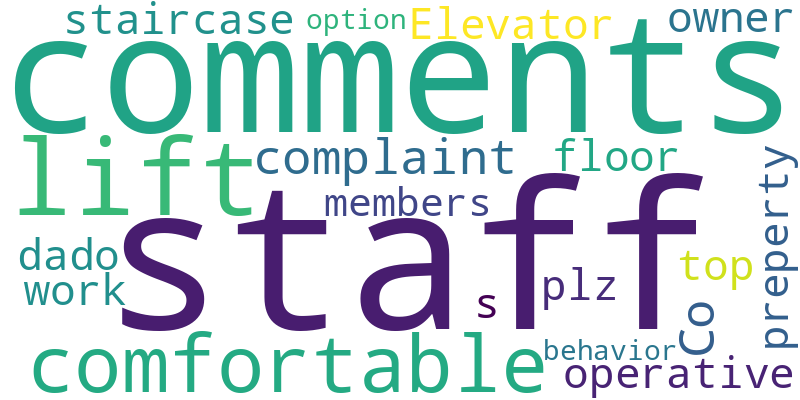
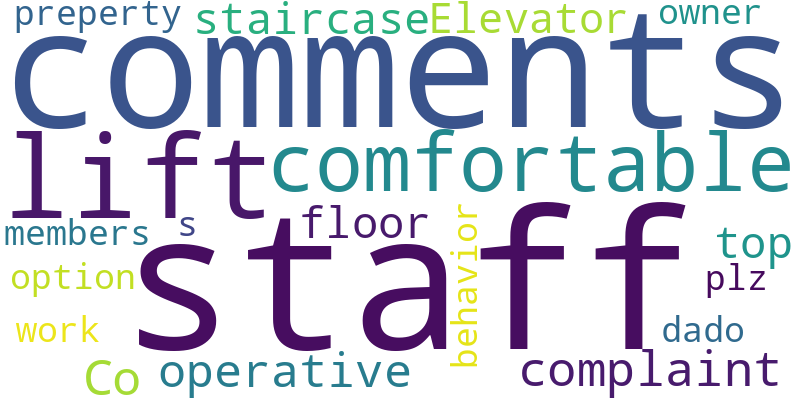
All pages UI modifed

diff --git a/Backend/analysis/templates/analysis/result.html b/Backend/analysis/templates/analysis/result.html
@@ -2,26 +2,35 @@
 {% block title %}Results - {{ hotel_name }}{% endblock %}
 
 {% block content %}
-<div class="p-8">
-    <h1 class="text-3xl font-bold mb-6">Results for {{ hotel_name }}</h1>
-    <p class="mb-6 text-gray-700">Total Processed Reviews: {{ review_count }}</p>
+<div>
+    <h2 class="text-3xl font-bold text-blue-700 mb-2">{{ hotel_name }}</h2>
+    <p class="text-gray-600 mb-6">Total Processed Reviews: 
+        <span class="font-semibold text-gray-800">{{ review_count }}</span>
+    </p>
 
-    <div class="grid grid-cols-2 gap-6">
-        <div id="sentiment_container">
-            <h2 class="text-xl mb-2 font-semibold">Sentiment Pie Chart</h2>
-            <div id="sentiment_chart"></div>
+    <div class="grid grid-cols-1 md:grid-cols-2 gap-6">
+        <!-- Sentiment Pie -->
+        <div id="sentiment_container" class="bg-white p-4 rounded shadow">
+            <h3 class="text-xl font-semibold mb-2">Sentiment Pie Chart</h3>
+            <div id="sentiment_chart" class="w-full"></div>
         </div>
-        <div id="trend_container">
-            <h2 class="text-xl mb-2 font-semibold">Rating Trend</h2>
-            <div id="trend_chart"></div>
+
+        <!-- Rating Trend -->
+        <div id="trend_container" class="bg-white p-4 rounded shadow">
+            <h3 class="text-xl font-semibold mb-2">Rating Trend Over Time</h3>
+            <div id="trend_chart" class="w-full"></div>
         </div>
-        <div id="country_container">
-            <h2 class="text-xl mb-2 font-semibold">User Country Distribution</h2>
-            <div id="country_chart"></div>
+
+        <!-- Country Distribution -->
+        <div id="country_container" class="bg-white p-4 rounded shadow">
+            <h3 class="text-xl font-semibold mb-2">User Country Distribution</h3>
+            <div id="country_chart" class="w-full"></div>
         </div>
-        <div>
-            <h2 class="text-xl mb-2 font-semibold">Keyword WordCloud</h2>
-            <img src="{{ tags_wordcloud }}" alt="Keyword Cloud">
+
+        <!-- WordCloud -->
+        <div class="bg-white p-4 rounded shadow">
+            <h3 class="text-xl font-semibold mb-2">Keyword Word Cloud</h3>
+            <img src="{{ tags_wordcloud }}" alt="Keyword Cloud" class="w-full object-contain rounded">
         </div>
     </div>
 </div>
@@ -34,11 +43,13 @@
     } else {
         document.getElementById('sentiment_container').style.display = 'none';
     }
+
     if (charts.trend) {
         Plotly.newPlot('trend_chart', charts.trend.data, charts.trend.layout);
     } else {
         document.getElementById('trend_container').style.display = 'none';
     }
+
     if (charts.country) {
         Plotly.newPlot('country_chart', charts.country.data, charts.country.layout);
     } else {

diff --git a/Backend/analysis/templates/analysis/index.html b/Backend/analysis/templates/analysis/index.html
@@ -1,28 +1,29 @@
 {% extends "analysis/base.html" %}
 {% block title %}Hotel Review Analysis{% endblock %}
+
 {% block content %}
-<div class="flex items-center justify-center h-screen">
-  <div class="bg-white shadow-lg rounded-lg p-8 max-w-md w-full">
-      <h1 class="text-2xl font-bold mb-4 text-center">Hotel Review Analysis</h1>
-      <form method="post">
-          {% csrf_token %}
-          <label class="block mb-2 text-sm font-medium text-gray-700" for="hotel_url">
-              Paste the Booking.com hotel URL
-          </label>
-          <input 
-              type="url" 
-              name="hotel_url" 
-              id="hotel_url" 
-              required 
-              class="w-full p-2 border border-gray-300 rounded mb-4 focus:outline-none focus:ring-2 focus:ring-blue-500"
-              placeholder="https://www.booking.com/hotel/..."
-          >
-          <button 
-              type="submit" 
-              class="w-full bg-blue-500 text-white py-2 rounded hover:bg-blue-600 transition">
-              Analyze Reviews
-          </button>
-      </form>
-  </div>
+<div class="flex justify-center items-center min-h-[60vh]">
+    <div class="bg-white shadow-xl rounded-lg p-8 w-full max-w-xl">
+        <h2 class="text-3xl font-bold text-center mb-6 text-blue-700">Analyze Your Hotel</h2>
+        <form method="post">
+            {% csrf_token %}
+            <label for="hotel_url" class="block mb-2 text-gray-700 font-medium">
+                Paste your Booking.com hotel URL:
+            </label>
+            <input 
+                type="url" 
+                name="hotel_url" 
+                id="hotel_url" 
+                required 
+                class="w-full px-4 py-2 border border-gray-300 rounded-md mb-4 focus:outline-none focus:ring-2 focus:ring-blue-500"
+                placeholder="https://www.booking.com/hotel/..."
+            >
+            <button 
+                type="submit" 
+                class="w-full bg-blue-600 hover:bg-blue-700 text-white font-semibold py-2 rounded-md transition">
+                Analyze Reviews
+            </button>
+        </form>
+    </div>
 </div>
 {% endblock %}

diff --git a/Backend/analysis/templates/analysis/base.html b/Backend/analysis/templates/analysis/base.html
@@ -5,8 +5,27 @@
     <title>{% block title %}Hotel Review Analysis{% endblock %}</title>
     <script src="https://cdn.tailwindcss.com"></script>
 </head>
-<body class="bg-gray-100 min-h-screen">
-    {% block content %}
-    {% endblock %}
+<body class="bg-gray-100 min-h-screen flex flex-col">
+
+    <!-- Header -->
+    <header class="bg-blue-600 text-white p-4 shadow">
+        <div class="container mx-auto flex justify-between items-center">
+            <h1 class="text-xl font-bold">
+                <a href="{% url 'index' %}" class="hover:underline">Hotel Review Analyzer</a>
+            </h1>
+        </div>
+    </header>
+
+    <!-- Main Content -->
+    <main class="flex-grow container mx-auto px-4 py-8">
+        {% block content %}
+        {% endblock %}
+    </main>
+
+    <!-- Footer -->
+    <footer class="bg-gray-200 text-center py-4 text-sm text-gray-600">
+        © 2025 Review Insight Engine | Built with Django & Tailwind
+    </footer>
+
 </body>
 </html>
